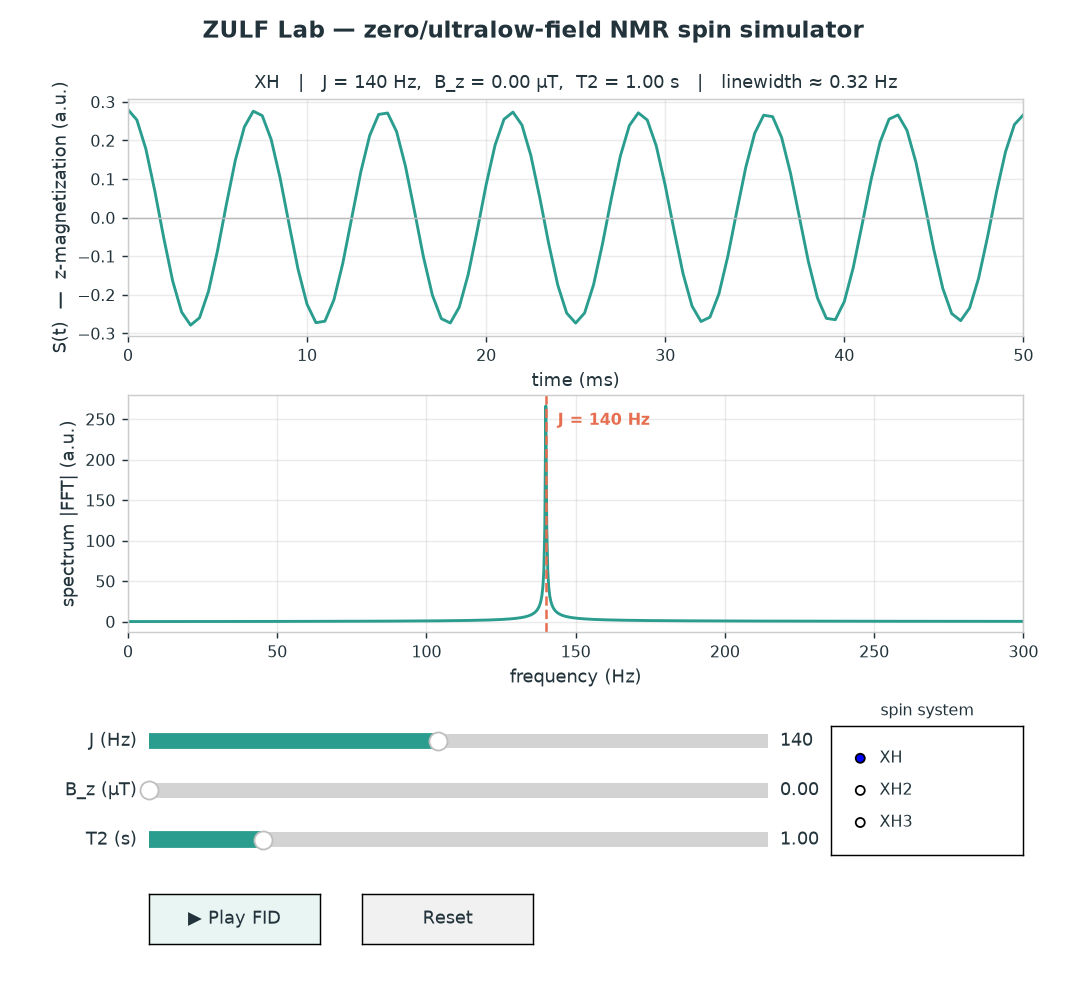
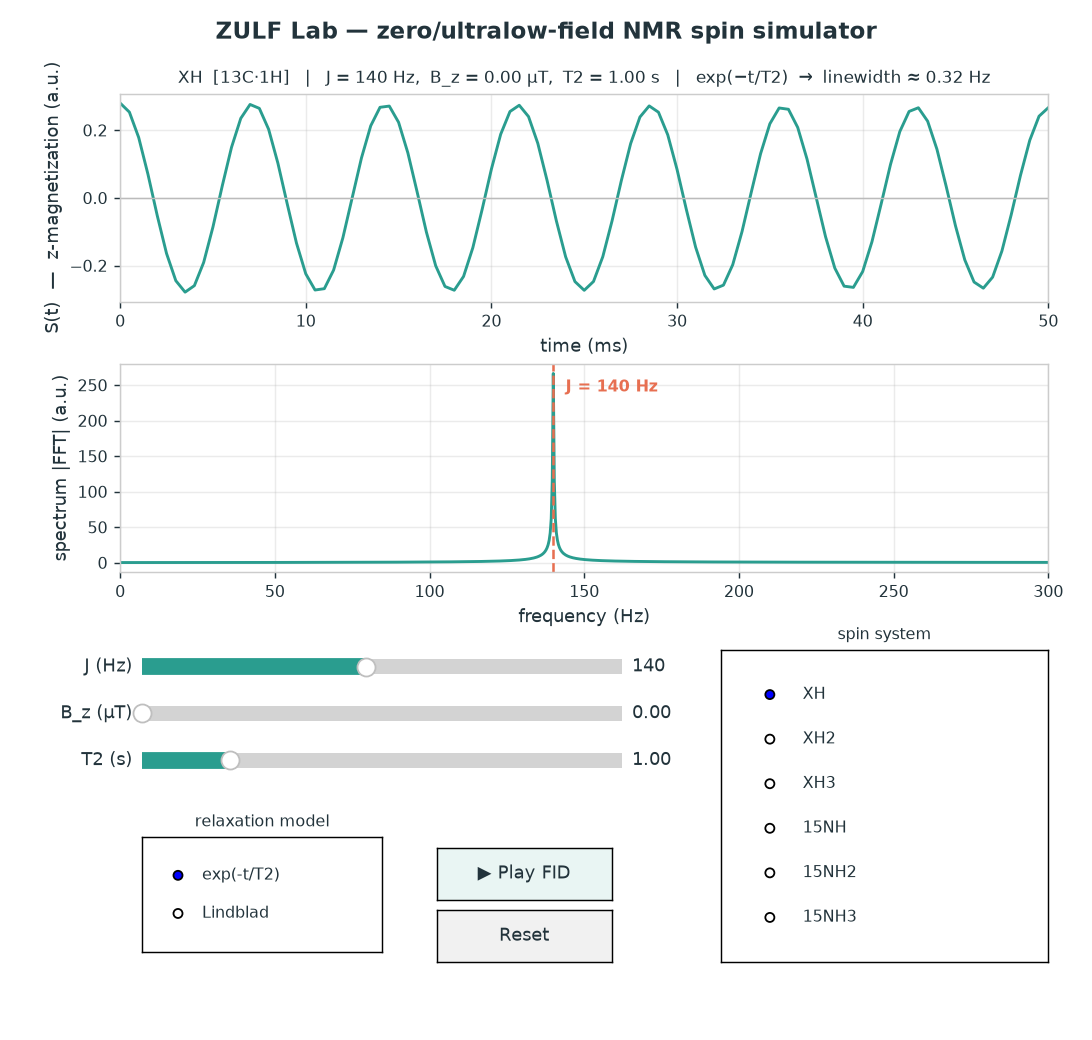
Add live Lindblad relaxation toggle and more spin systems
Relaxation:
- Wire the Lindblad superoperator into a live UI toggle alongside the
  phenomenological exp(-t/T2) envelope. evolve_signal_lindblad diagonalizes the
  Liouvillian once and sums over its damped eigenmodes; only oscillating
  coherences (Im(lam) != 0) are kept so the signal is AC-coupled like the
  unitary path, and negligible-amplitude modes are dropped to keep the time
  evaluation a short sum of exponentials (instant for <=3 spins, ~75 ms for the
  dim-16 systems). Switched the Liouvillian to np.kron; added a stepwise
  expm fallback for the rare non-diagonalizable case.

Spin systems:
- Generalize presets to named nuclei and add a 15N family (15NH, 15NH2, 15NH3)
  beside the 13C family (XH, XH2, XH3). 15N has a small, negative gyromagnetic
  ratio, so the families share zero-field line positions but diverge in the ULF
  crossover. All systems stay <= 4 spins (dim <= 16).

UI:
- New relaxation-model radio, expanded spin-system selector, reflowed control
  panel, and a title that shows the active nuclei and relaxation model.

Sanity checks now verify the Lindblad peak sits at J and that its line broadens
as T2 shrinks, and print predicted zero-field lines for all six systems.

Claude-Session: https://claude.ai/code/session_013FEeCKFRj576ZweqBitzx4

diff --git a/zulf_nmr.py b/zulf_nmr.py
@@ -15,10 +15,11 @@ products -> Hamiltonian -> propagation by diagonalization -> FFT.
 
 Run it:
     python zulf_nmr.py
-An interactive Matplotlib window opens with live sliders for J, B_z and T2,
-plus a spin-system selector and a "Play" button that animates the FID. A
-static snapshot of the default state is always written to ``zulf_demo.png`` so
-the result is verifiable even in a headless run.
+An interactive Matplotlib window opens with live sliders for J, B_z and T2, a
+spin-system selector (13C and 15N families, XH .. XH3), a relaxation-model toggle
+(phenomenological exp(-t/T2) vs a proper Lindblad superoperator), and a "Play"
+button that animates the FID. A static snapshot of the default state is always
+written to ``zulf_demo.png`` so the result is verifiable even in a headless run.
 
 ----------------------------------------------------------------------------
 UNITS & THE ALL-IMPORTANT 2*pi
@@ -63,9 +64,18 @@ from matplotlib.widgets import Slider, Button, RadioButtons  # noqa: E402
 # ===========================================================================
 # Gyromagnetic ratios gamma / 2*pi, in MHz/T. With B_z expressed in microtesla
 # this gives the Larmor frequency conveniently as nu[Hz] = gamma[MHz/T] * B[uT]
-# (e.g. 1H at 1 uT -> 42.577 Hz, 13C at 1 uT -> 10.7084 Hz).
-GAMMA = {"1H": 42.577, "13C": 10.7084}  # MHz/T
-GAMMA_H = GAMMA["1H"]
+# (e.g. 1H at 1 uT -> 42.577 Hz, 13C at 1 uT -> 10.7084 Hz). Note 15N is
+# negative -- its spins precess the opposite way, which shows up in the ULF
+# crossover even though it leaves the zero-field line positions unchanged.
+NUCLEI = {
+    "1H": 42.577,
+    "13C": 10.7084,
+    "15N": -4.316,
+    "19F": 40.078,
+    "31P": 17.235,
+}
+GAMMA = NUCLEI          # backwards-compatible alias
+GAMMA_H = NUCLEI["1H"]
 
 # Time grid: dt = 0.5 ms, T = 3 s  ->  Nyquist = 1000 Hz, df ~ 0.33 Hz.
 DT = 0.5e-3
@@ -109,15 +119,23 @@ def spin_op(i, k, n):
 # ===========================================================================
 # 2. SPIN SYSTEM + HAMILTONIAN
 # ===========================================================================
-# Each preset is one 13C ("X") coupled to n equivalent 1H, the canonical ZULF
-# building blocks. The H-H couplings are left at zero: equivalent protons are
-# magnetically equivalent, so a mutual J only shifts whole spin manifolds and
-# does not move the observed lines -- omitting it keeps the model clean.
+# Each preset is one heteronucleus ("X", site 0) coupled to n equivalent 1H,
+# the canonical ZULF building blocks. The H-H couplings are left at zero:
+# equivalent protons are magnetically equivalent, so a mutual J only shifts
+# whole spin manifolds and does not move the observed lines -- omitting it keeps
+# the model clean. The two families (13C and 15N) share the same zero-field line
+# pattern but behave differently in the ULF crossover (very different Larmor
+# rates, and 15N precesses with the opposite sign). All systems are <= 4 spins
+# (Hilbert dim <= 16) so the Lindblad superoperator stays small and fast.
 SYSTEMS = {
-    "XH":  [GAMMA["13C"], GAMMA["1H"]],
-    "XH2": [GAMMA["13C"], GAMMA["1H"], GAMMA["1H"]],
-    "XH3": [GAMMA["13C"], GAMMA["1H"], GAMMA["1H"], GAMMA["1H"]],
+    "XH":    ["13C", "1H"],                 # 13C-1H, the ZULF "hello world"
+    "XH2":   ["13C", "1H", "1H"],           # methylene-like (line at 1.5 J)
+    "XH3":   ["13C", "1H", "1H", "1H"],     # methyl (lines at J and 2J)
+    "15NH":  ["15N", "1H"],                 # amide-like, slow/negative-gamma X
+    "15NH2": ["15N", "1H", "1H"],           # amine-like
+    "15NH3": ["15N", "1H", "1H", "1H"],     # ammonia
 }
+SYSTEM_NAMES = list(SYSTEMS)
 
 
 class SpinSystem:
@@ -131,10 +149,11 @@ class SpinSystem:
 
     def __init__(self, name):
         self.name = name
-        self.gammas = np.array(SYSTEMS[name], dtype=float)  # MHz/T, site 0 = 13C
-        self.n = len(self.gammas)
+        self.nuclei = list(SYSTEMS[name])                   # e.g. ["13C","1H","1H"]
+        self.gammas = np.array([NUCLEI[x] for x in self.nuclei], float)  # MHz/T
+        self.n = len(self.gammas)                           # site 0 is the X nucleus
         self.dim = 2 ** self.n
-        # Couple site 0 (the X = 13C) to every proton with the same J.
+        # Couple site 0 (the heteronucleus X) to every proton with the same J.
         self.pairs = [(0, j) for j in range(1, self.n)]
 
         # Precompute the Cartesian spin operators for each site once.
@@ -260,31 +279,84 @@ def zero_field_lines(n_protons, J):
 # ===========================================================================
 # 4. (STRETCH) PROPER LINDBLAD RELAXATION SUPEROPERATOR
 # ===========================================================================
-# Scaffold for replacing the phenomenological exp(-t/T2) envelope with a real
-# dissipative model. The Liouvillian L acts on a vectorized density matrix
-# (column-stacking convention), rho(t) = expm(L t) @ vec(rho0). Independent
-# transverse dephasing on each spin with rate 1/T2 reproduces Lorentzian lines.
-# Kept here for completeness/teaching; the live UI uses the fast closed form
-# above so dragging stays instant.
+# A physical alternative to the phenomenological exp(-t/T2) envelope. The
+# Liouvillian L acts on a *vectorized* density matrix (column-stacking
+# convention, so vec(A X B) = (B^T (x) A) vec(X)), with rho(t) = expm(L t) vec(rho0).
+# Each spin dephases independently, and the linewidths then emerge from the
+# model rather than being imposed -- a line built from more dephasing spins
+# comes out broader. The UI lets you toggle this on live (see the relaxation
+# selector); it is heavier than the unitary closed form but still instant at
+# Hilbert dimension <= 16.
 def lindblad_liouvillian(system, J, Bz, T2):
-    """Vectorized Liouvillian L (dim^2 x dim^2): drho/dt = L rho, column-stacked."""
-    from scipy.linalg import kron as spkron  # local import keeps SciPy optional
+    """Vectorized Liouvillian L (dim^2 x dim^2): d vec(rho)/dt = L vec(rho).
 
+    Coherent part  -i (I (x) H - H^T (x) I)  plus, for each spin, a transverse
+    dephasing dissipator with collapse operator C_i = sqrt(2/T2) I_i^z. That
+    normalization makes a single isolated spin's coherence decay at exactly 1/T2
+    (d rho_01/dt = -(1/T2) rho_01).
+    """
     H = system.hamiltonian(J, Bz)
     d = system.dim
     Id = np.eye(d, dtype=complex)
-    # Coherent part: -i (I (x) H - H^T (x) I)   (column-stacking convention)
-    L = -1j * (spkron(Id, H) - spkron(H.T, Id))
-    # Dephasing collapse operators sqrt(rate) * sqrt(2) I_i^z give 1/T2 decay.
+    # Coherent part (column-stacking convention).
+    L = -1j * (np.kron(Id, H) - np.kron(H.T, Id))
+    # Independent transverse dephasing on each spin.
     rate = 1.0 / T2
     for Iz in system.Iz:
         C = np.sqrt(2.0 * rate) * Iz
-        Cd = C.conj().T
-        CdC = Cd @ C
-        L += (spkron(C.conj(), C)
-              - 0.5 * spkron(Id, CdC)
-              - 0.5 * spkron(CdC.T, Id))
+        CdC = C.conj().T @ C
+        L += (np.kron(C.conj(), C)
+              - 0.5 * np.kron(Id, CdC)
+              - 0.5 * np.kron(CdC.T, Id))
     return L
+
+
+def evolve_signal_lindblad(system, J, Bz, T2, t):
+    """Time-domain signal under the Lindblad master equation.
+
+    We diagonalize the Liouvillian once, L = P diag(lam) P^-1, and write the
+    detected signal S(t) = Tr[rho(t) M] = vec(M^T)^T expm(L t) vec(rho0) as a
+    sum of *complex* exponentials,
+
+        S(t) = Re sum_k coef_k exp(lam_k t),
+
+    where Re(lam_k) <= 0 sets the decay and Im(lam_k) the oscillation frequency.
+    This mirrors the unitary closed form but with damped rates. Stationary modes
+    (lam ~ 0) are dropped to AC-couple the signal, matching the magnetometer.
+    Falls back to a direct propagator if L is numerically non-diagonalizable.
+    """
+    L = lindblad_liouvillian(system, J, Bz, T2)
+    obs = system.M.T.reshape(-1, order="F")        # vec(M^T), column-stacked
+    vrho0 = system.rho0.reshape(-1, order="F")     # vec(rho0)
+    try:
+        lam, P = np.linalg.eig(L)
+        coef = (obs @ P) * np.linalg.solve(P, vrho0)
+        # Keep only the *oscillating* coherences (Im(lam) != 0). The remaining
+        # modes are non-oscillating relaxation/population (T1-like) terms that
+        # form a baseline at 0 Hz; dropping them AC-couples the signal, exactly
+        # as mean-subtraction does for the unitary case. Also drop negligible-
+        # amplitude modes so the time evaluation stays a short sum of damped
+        # exponentials (and hence fast).
+        amp = np.abs(coef)
+        keep = (np.abs(lam.imag) > 0.5) & (amp > 1e-6 * (amp.max() or 1.0))
+        S = (np.exp(np.outer(t, lam[keep])) @ coef[keep]).real
+        if not np.all(np.isfinite(S)):
+            raise np.linalg.LinAlgError("non-finite signal")
+    except np.linalg.LinAlgError:
+        S = _lindblad_signal_stepwise(L, obs, vrho0, t)
+    return S - S.mean(), None
+
+
+def _lindblad_signal_stepwise(L, obs, vrho0, t):
+    """Robust fallback: step vec(rho) with a fixed propagator expm(L*dt)."""
+    from scipy.linalg import expm
+    step = expm(L * (t[1] - t[0]))
+    v = vrho0.astype(complex)
+    S = np.empty(len(t))
+    for k in range(len(t)):
+        S[k] = (obs @ v).real
+        v = step @ v
+    return S
 
 
 # ===========================================================================
@@ -295,23 +367,32 @@ TIME_WINDOW_S = 0.050   # show the first 50 ms of the FID
 FREQ_MAX_HZ = 300.0     # spectrum view 0..300 Hz
 
 
+# Relaxation models exposed by the live toggle: label -> signal evaluator.
+RELAX_MODELS = {
+    "exp(-t/T2)": evolve_signal,
+    "Lindblad": evolve_signal_lindblad,
+}
+RELAX_LABELS = list(RELAX_MODELS)
+
+
 def build_app(defaults=DEFAULTS):
     """Build the figure, axes, widgets and callbacks. Returns the Figure."""
     state = {
         "system": SpinSystem(defaults["system"]),
-        "S": None,          # last computed (windowed) time signal, for Play
-        "anim": None,       # keep a reference so the animation isn't GC'd
+        "relax": RELAX_LABELS[0],   # active relaxation model label
+        "S": None,                  # last computed (windowed) time signal, for Play
+        "anim": None,               # keep a reference so the animation isn't GC'd
     }
     tmask = TIME <= TIME_WINDOW_S
     t_ms = TIME[tmask] * 1e3
 
-    fig = plt.figure(figsize=(8.2, 7.6))
+    fig = plt.figure(figsize=(8.4, 8.0))
     fig.patch.set_facecolor("white")
     fig.suptitle("ZULF Lab — zero/ultralow-field NMR spin simulator",
                  fontsize=13, fontweight="bold", color=INK)
 
-    ax_time = fig.add_axes([0.12, 0.66, 0.84, 0.24])
-    ax_freq = fig.add_axes([0.12, 0.36, 0.84, 0.24])
+    ax_time = fig.add_axes([0.11, 0.71, 0.85, 0.20])
+    ax_freq = fig.add_axes([0.11, 0.45, 0.85, 0.20])
     for ax in (ax_time, ax_freq):
         ax.set_facecolor("white")
         ax.grid(True, alpha=0.25)
@@ -336,10 +417,10 @@ def build_app(defaults=DEFAULTS):
     aux_lines = [ax_freq.axvline(0, color=MARKER, lw=0.9, ls=":", alpha=0.0)
                  for _ in range(3)]
 
-    # ---- sliders ----
-    ax_J = fig.add_axes([0.14, 0.235, 0.58, 0.03])
-    ax_B = fig.add_axes([0.14, 0.185, 0.58, 0.03])
-    ax_T2 = fig.add_axes([0.14, 0.135, 0.58, 0.03])
+    # ---- sliders (left column) ----
+    ax_J = fig.add_axes([0.13, 0.345, 0.44, 0.028])
+    ax_B = fig.add_axes([0.13, 0.300, 0.44, 0.028])
+    ax_T2 = fig.add_axes([0.13, 0.255, 0.44, 0.028])
     s_J = Slider(ax_J, "J (Hz)", 0.0, 300.0, valinit=defaults["J"],
                  color=ACCENT, valfmt="%.0f")
     s_B = Slider(ax_B, "B_z (µT)", 0.0, 5.0, valinit=defaults["Bz"],
@@ -350,29 +431,39 @@ def build_app(defaults=DEFAULTS):
         s.label.set_color(INK)
         s.valtext.set_color(INK)
 
-    # ---- system selector (radio) ----
-    ax_radio = fig.add_axes([0.78, 0.135, 0.18, 0.13])
-    ax_radio.set_title("spin system", fontsize=9, color=INK)
-    radio = RadioButtons(ax_radio, ("XH", "XH2", "XH3"),
-                         active=("XH", "XH2", "XH3").index(defaults["system"]))
-    for lbl in radio.labels:
+    # ---- relaxation-model selector (left, below the sliders) ----
+    ax_relax = fig.add_axes([0.13, 0.085, 0.22, 0.11])
+    ax_relax.set_title("relaxation model", fontsize=9, color=INK)
+    relax_radio = RadioButtons(ax_relax, tuple(RELAX_LABELS),
+                               active=RELAX_LABELS.index(state["relax"]))
+    for lbl in relax_radio.labels:
         lbl.set_color(INK)
         lbl.set_fontsize(9)
 
     # ---- buttons ----
-    ax_play = fig.add_axes([0.14, 0.045, 0.16, 0.05])
-    ax_reset = fig.add_axes([0.34, 0.045, 0.16, 0.05])
+    ax_play = fig.add_axes([0.40, 0.135, 0.16, 0.05])
+    ax_reset = fig.add_axes([0.40, 0.075, 0.16, 0.05])
     b_play = Button(ax_play, "▶ Play FID", color="#e9f5f3", hovercolor="#cdeae6")
     b_reset = Button(ax_reset, "Reset", color="#f1f1f1", hovercolor="#dddddd")
     b_play.label.set_color(INK)
     b_reset.label.set_color(INK)
 
+    # ---- spin-system selector (right column) ----
+    ax_radio = fig.add_axes([0.66, 0.075, 0.30, 0.30])
+    ax_radio.set_title("spin system", fontsize=9, color=INK)
+    radio = RadioButtons(ax_radio, tuple(SYSTEM_NAMES),
+                         active=SYSTEM_NAMES.index(defaults["system"]))
+    for lbl in radio.labels:
+        lbl.set_color(INK)
+        lbl.set_fontsize(9)
+
     # ---- the core update: recompute everything and redraw ----
     def recompute(_=None):
         system = state["system"]
         J, Bz, T2 = s_J.val, s_B.val, s_T2.val
+        evolve = RELAX_MODELS[state["relax"]]
 
-        S, E = evolve_signal(system, J, Bz, T2, TIME)
+        S, _ = evolve(system, J, Bz, T2, TIME)
         freqs, mag = spectrum(S, DT)
 
         Sw = S[tmask]
@@ -399,21 +490,29 @@ def build_app(defaults=DEFAULTS):
             else:
                 aux.set_alpha(0.0)
 
+        if state["relax"] == "Lindblad":
+            relax_txt = "Lindblad (per-spin dephasing, 1/T2 each)"
+        else:
+            relax_txt = f"exp(−t/T2)  →  linewidth ≈ {1/(np.pi*T2):.2f} Hz"
         ax_time.set_title(
-            f"{system.name}   |   J = {J:.0f} Hz,  B_z = {Bz:.2f} µT,  "
-            f"T2 = {T2:.2f} s   |   linewidth ≈ {1/(np.pi*T2):.2f} Hz",
-            fontsize=10, color=INK)
+            f"{system.name}  [{'·'.join(system.nuclei)}]   |   "
+            f"J = {J:.0f} Hz,  B_z = {Bz:.2f} µT,  T2 = {T2:.2f} s   |   "
+            f"{relax_txt}", fontsize=9.5, color=INK)
         fig.canvas.draw_idle()
 
     def on_system(label):
         state["system"] = SpinSystem(label)
         recompute()
 
+    def on_relax(label):
+        state["relax"] = label
+        recompute()
+
     def on_reset(_):
         s_J.reset()
         s_B.reset()
         s_T2.reset()
-        # radio has no clean programmatic reset across versions; leave as-is.
+        # radios have no clean programmatic reset across versions; leave as-is.
         recompute()
 
     def on_play(_):
@@ -437,12 +536,13 @@ def build_app(defaults=DEFAULTS):
     s_B.on_changed(recompute)
     s_T2.on_changed(recompute)
     radio.on_clicked(on_system)
+    relax_radio.on_clicked(on_relax)
     b_reset.on_clicked(on_reset)
     b_play.on_clicked(on_play)
 
     recompute()
     # keep widget references alive on the figure
-    fig._zulf_widgets = (s_J, s_B, s_T2, radio, b_play, b_reset)
+    fig._zulf_widgets = (s_J, s_B, s_T2, radio, relax_radio, b_play, b_reset)
     return fig
 
 
@@ -484,9 +584,23 @@ def sanity_check():
     print(f"[homonuclear gamma_C=gamma_H] signal RMS : {rms:.2e}  "
           f"-> {'PASS (zero)' if rms < 1e-9 else 'FAIL'}")
 
-    for name in ("XH", "XH2", "XH3"):
+    # Lindblad model: same line position as the unitary closed form, and the
+    # line broadens as T2 shrinks (linewidth from FWHM of the magnitude peak).
+    def _fwhm_hz(T2):
+        Sl, _ = evolve_signal_lindblad(sysXH, 140.0, 0.0, T2, TIME)
+        fl, ml = spectrum(Sl, DT)
+        half = ml.max() / 2.0
+        above = fl[ml >= half]
+        return fl[np.argmax(ml)], (above.max() - above.min())
+    pk_l, w1 = _fwhm_hz(1.0)
+    _, w2 = _fwhm_hz(0.3)
+    okL = abs(pk_l - 140.0) <= (f[1] - f[0]) and w2 > w1
+    print(f"[XH, Lindblad] peak {pk_l:.2f} Hz; FWHM {w1:.2f}->{w2:.2f} Hz "
+          f"as T2 1.0->0.3 s  -> {'PASS' if okL else 'FAIL'}")
+
+    for name in SYSTEM_NAMES:
         s = SpinSystem(name)
-        print(f"[{name}] predicted zero-field lines (J=140): "
+        print(f"[{name:>6}] ({'·'.join(s.nuclei)})  predicted ZF lines (J=140): "
               f"{[round(x, 1) for x in zero_field_lines(s.n - 1, 140.0)]} Hz")
     print("=" * 64)
 

diff --git a/README.md b/README.md
@@ -18,11 +18,29 @@ python zulf_nmr.py
 ```
 
 An interactive window opens with live sliders for **J**, **leading field B_z**, and
-**T2**, a spin-system selector (XH / XH2 / XH3), and a **Play** button that animates
-the FID building up. A static snapshot of the default state is always written to
-`zulf_demo.png` (so it also works headless).
+**T2**, a **spin-system selector**, a **relaxation-model toggle**, and a **Play**
+button that animates the FID building up. A static snapshot of the default state is
+always written to `zulf_demo.png` (so it also works headless).
 
 ![demo](zulf_demo.png)
+
+### Spin systems
+
+Two heteronuclear families, all ≤ 4 spins (Hilbert dimension ≤ 16): a **¹³C**
+series (`XH`, `XH2`, `XH3`) and a **¹⁵N** series (`15NH`, `15NH2`, `15NH3`). They
+share the same zero-field line pattern but behave differently in the ULF crossover
+— ¹⁵N has a much smaller, *negative* gyromagnetic ratio, so its lines shift the
+other way as B_z grows.
+
+### Relaxation model (live toggle)
+
+- **`exp(-t/T2)`** — fast phenomenological envelope; every line gets width ≈ 1/(πT2).
+- **`Lindblad`** — a proper dissipative superoperator with independent transverse
+  dephasing on each spin (collapse operators `√(2/T2)·Iᵢᶻ`). The Liouvillian is
+  diagonalized once and the signal is summed over its damped eigenmodes, so
+  linewidths *emerge from the model* and differ line-to-line (more dephasing spins
+  ⇒ broader line). Instant for the 2–3 spin systems; ~75 ms/update for the 4-spin
+  (dim-16) ones, since it diagonalizes a 256×256 matrix.
 
 ## Physics, in brief
 